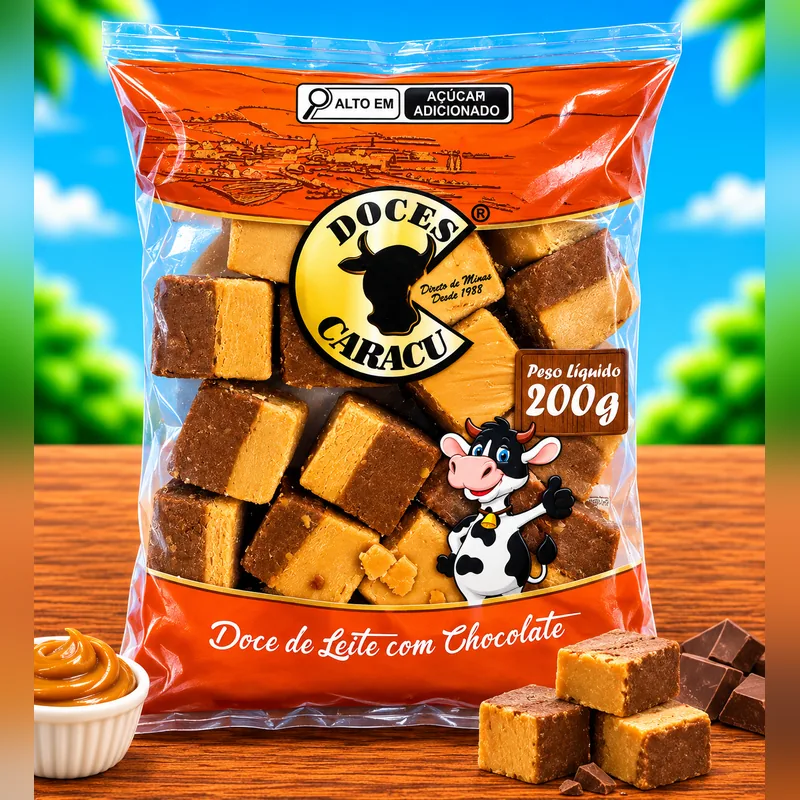
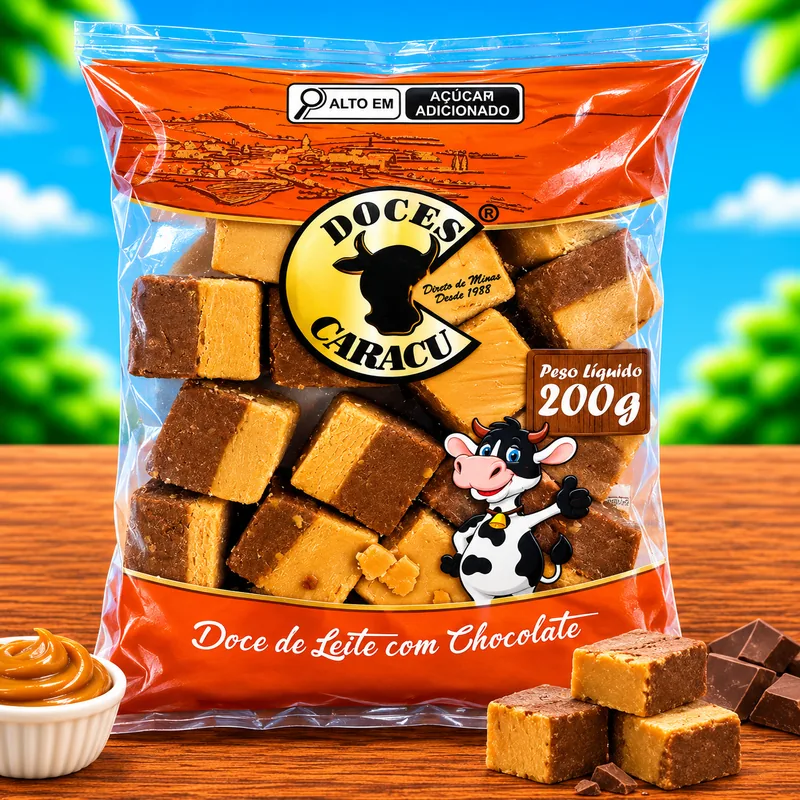
Fotos novas dos produtos (pasta Novo Itens catalogo, 90 códigos; 059 mantém a anterior)
Claude-Session: https://claude.ai/code/session_01Gnt6Lfgty14ZuTrsJczE9z

diff --git a/app/src/lib/fotos.ts b/app/src/lib/fotos.ts
@@ -1,7 +1,7 @@
 import type { Produto } from './tipos'
 
 // Fotos dos produtos que vêm junto com o app, em public/produtos/<codigo>.webp (800x800 WebP).
-// Fonte: pasta do Drive com as artes do catálogo, um PNG por código. Atualizadas em 22/11/2026.
+// Fonte: pasta do Drive com as artes do catálogo, um PNG por código. Atualizadas em 22/11/2026 e 25/11/2026 (pasta "Novo Itens catalogo"; o 059 não veio e manteve a foto anterior).
 // Para incluir um produto novo: salve a foto (800x800 WebP) com o código como nome e acrescente o código aqui.
 // Ao trocar fotos existentes, suba o nome do cache em vite.config.ts para os celulares baixarem as novas.
 // Se o gestor enviar uma foto pelo cadastro (foto_url), ela tem prioridade.

diff --git a/app/vite.config.ts b/app/vite.config.ts
@@ -36,7 +36,7 @@ export default defineConfig({
             // fotos padronizadas que vêm com o app (public/produtos). Ao trocar as fotos, suba o número do cache (v2, v3...) e ajuste main.tsx
             urlPattern: /\/produtos\/[^/]+\.webp$/,
             handler: 'CacheFirst',
-            options: { cacheName: 'fotos-padrao-v2', expiration: { maxEntries: 500, maxAgeSeconds: 60 * 60 * 24 * 60 } },
+            options: { cacheName: 'fotos-padrao-v3', expiration: { maxEntries: 500, maxAgeSeconds: 60 * 60 * 24 * 60 } },
           },
           {
             // fotos dos produtos: guarda no celular para ver offline e no catálogo

diff --git a/app/src/main.tsx b/app/src/main.tsx
@@ -5,8 +5,8 @@ import App from './App'
 import { AuthProvider } from './lib/auth'
 import './index.css'
 
-// Fotos dos produtos trocadas em 22/11/2026: apaga o cache antigo para o celular baixar as novas.
-if ('caches' in window) caches.delete('fotos-padrao').catch(() => {})
+// Fotos dos produtos trocadas em 22/11 e 25/11/2026: apaga os caches antigos para o celular baixar as novas.
+if ('caches' in window) for (const c of ['fotos-padrao', 'fotos-padrao-v2']) caches.delete(c).catch(() => {})
 
 createRoot(document.getElementById('root')!).render(
   <StrictMode>
